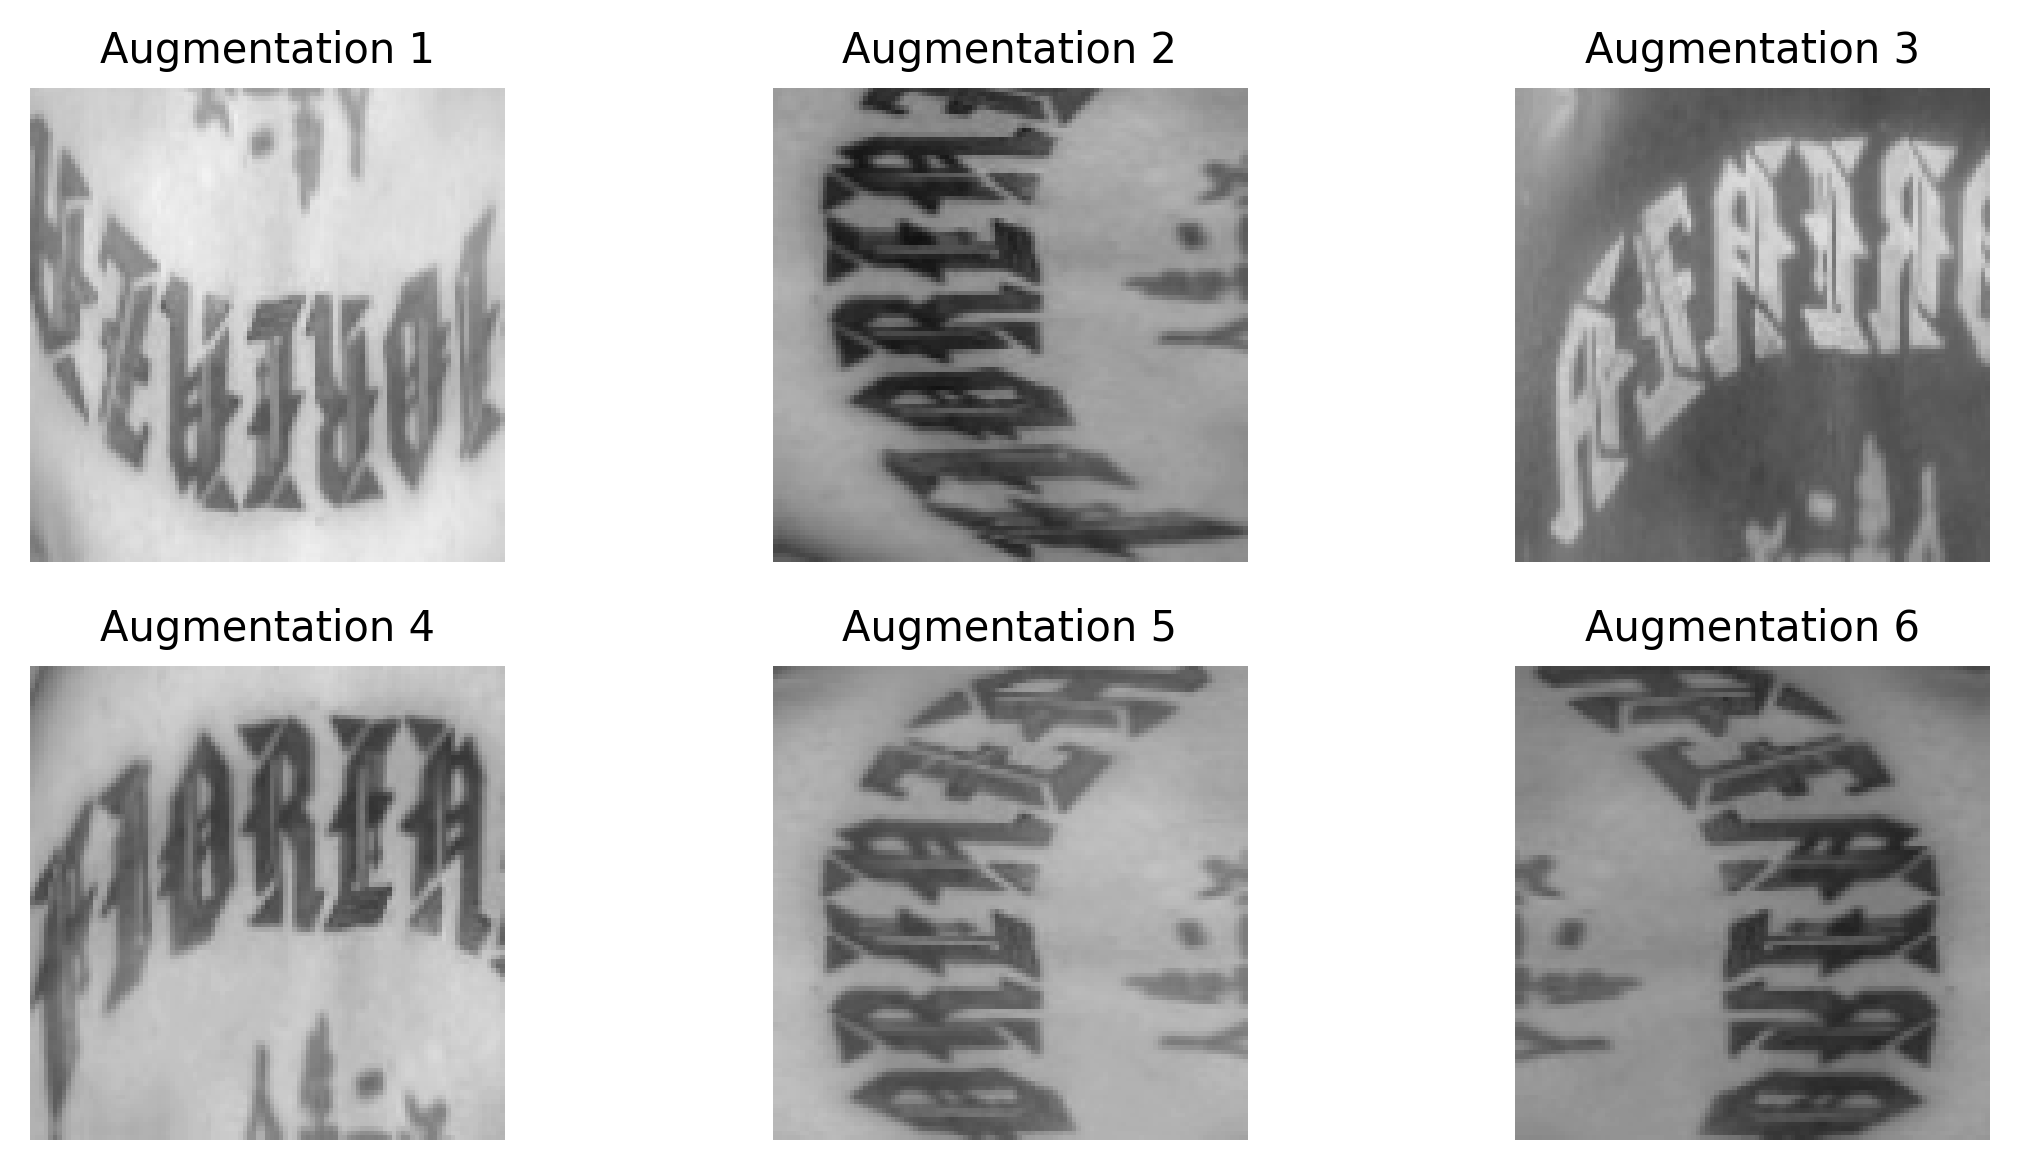
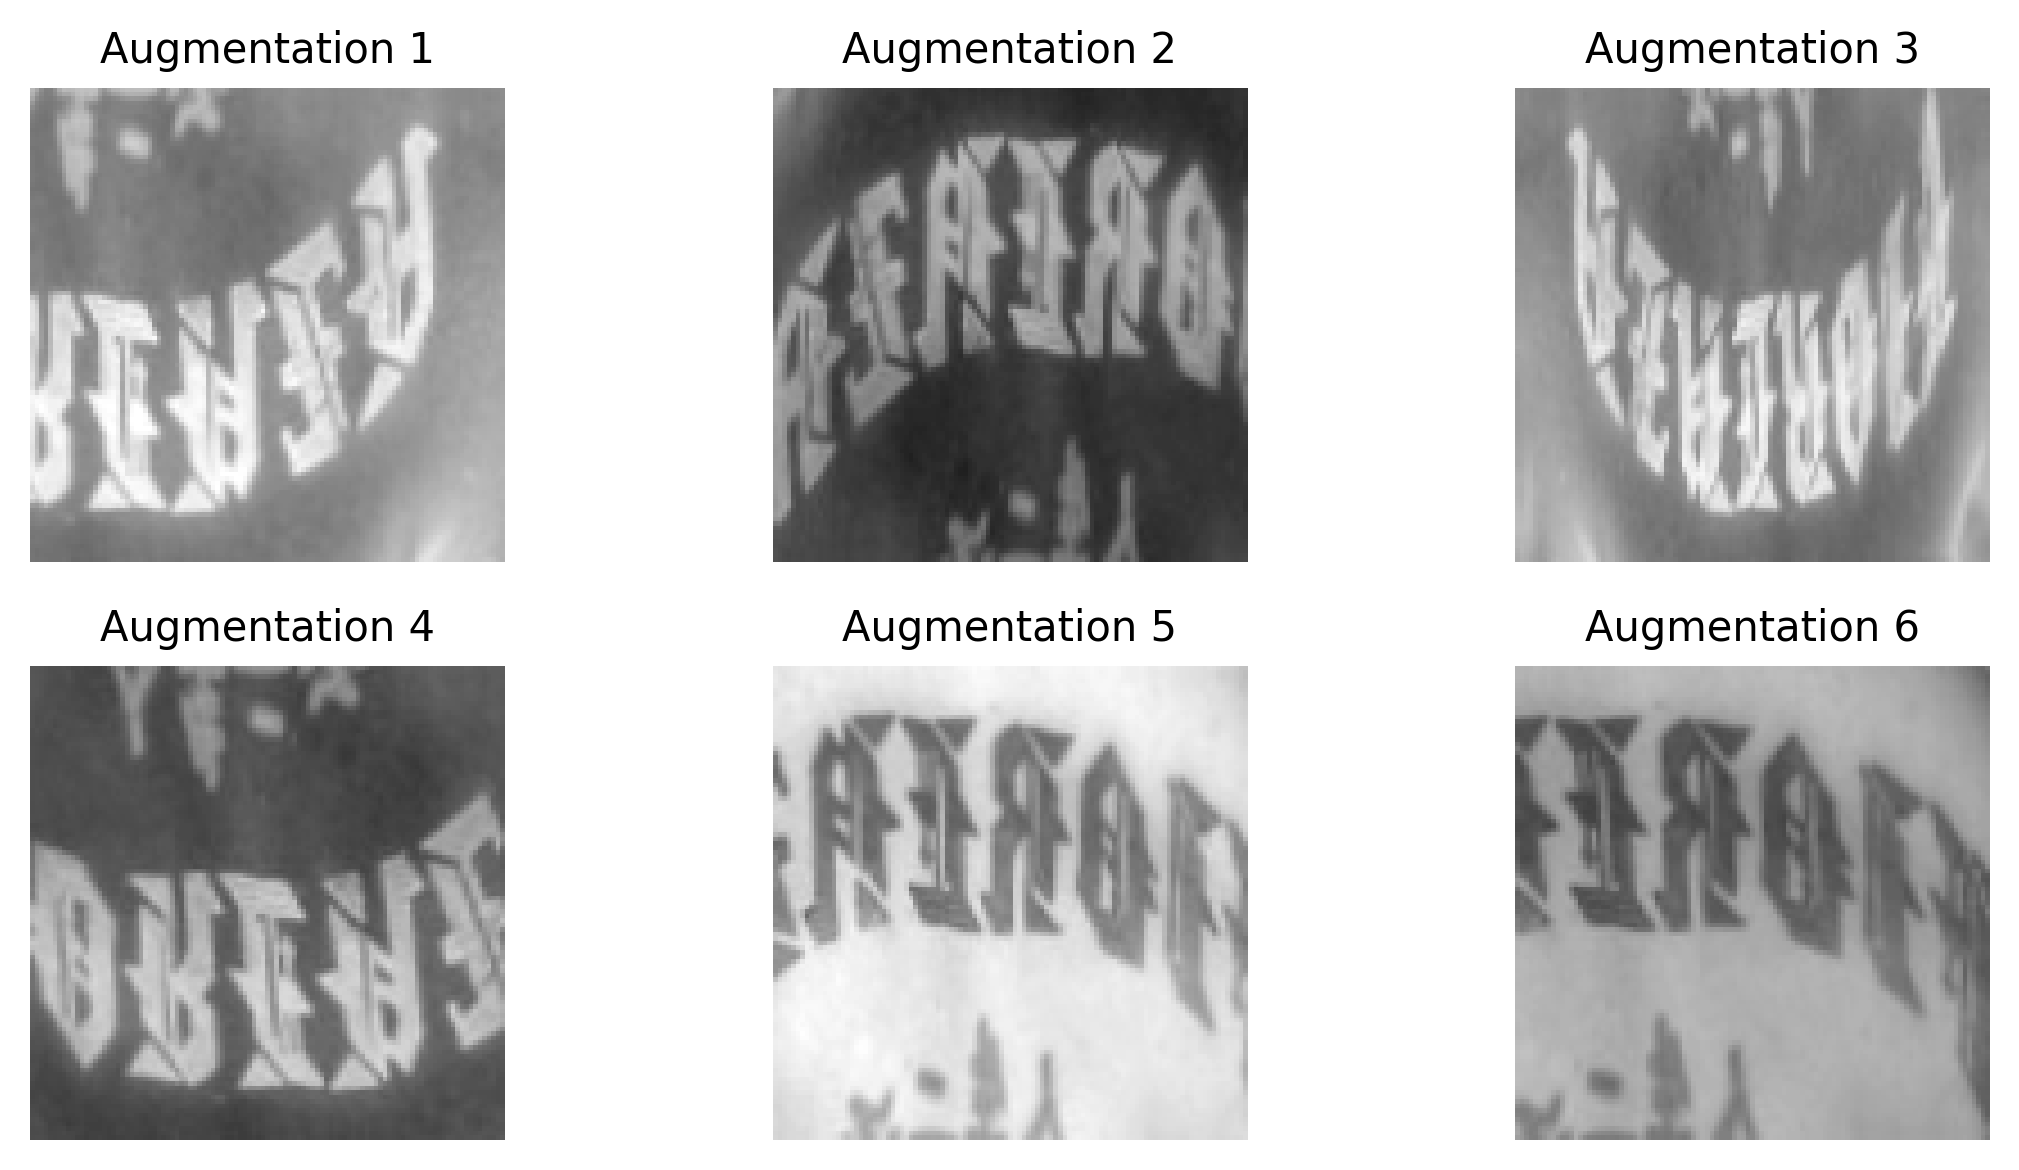
Adjusted blur limit

diff --git a/tests/test_augmentations.py b/tests/test_augmentations.py
@@ -101,7 +101,7 @@ class TestConstants:
         assert SHEAR_BOUNDS == (-3, 3)
 
     def test_blur_limit(self):
-        assert BLUR_LIMIT == (2.5, 3.5)
+        assert BLUR_LIMIT == (0.5, 1.0)
 
     def test_noise_mean_range(self):
         assert NOISE_MEAN_RANGE == (0.0, 0.0)

diff --git a/deepfont/data/augmentations.py b/deepfont/data/augmentations.py
@@ -13,7 +13,7 @@ SQUEEZE_RATIO = 1 / 2.5
 SCALE_LIMIT = 0.4
 ROTATE_BOUNDS = (-3, 3)
 SHEAR_BOUNDS = (-3, 3)
-BLUR_LIMIT = (2.5, 3.5)
+BLUR_LIMIT = (0.5, 1.0)
 NOISE_MEAN_RANGE = (0.0, 0.0)
 NOISE_STD_RANGE = (0.008, 0.016)
 ROT_FLIP_PROB = 0.5
